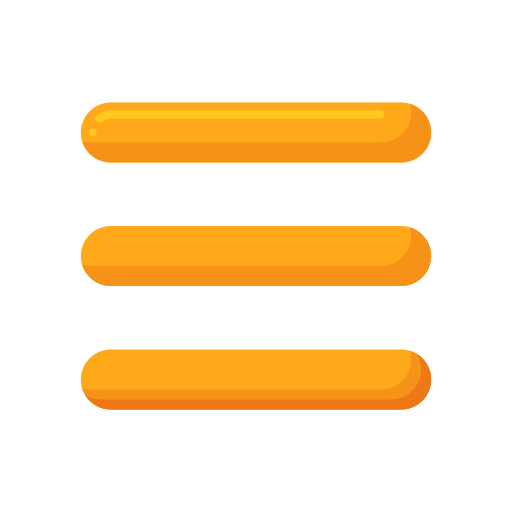
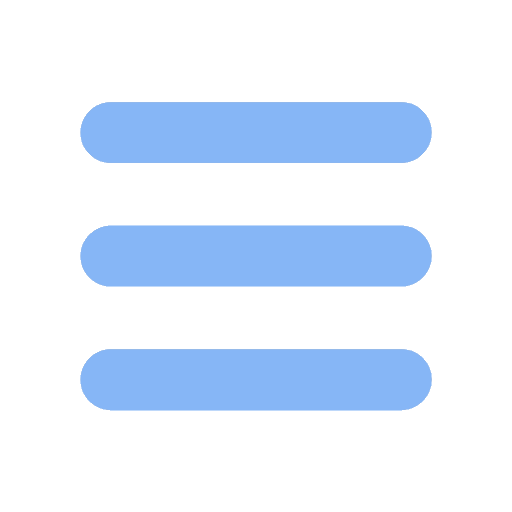
Chỉnh CSS

Changed region(s): [[0.1562, 0.6562, 0.8438, 0.8125], [0.1562, 0.1875, 0.8438, 0.3438], [0.1562, 0.4375, 0.8438, 0.5625]]

diff --git a/src/source/nhankhau_va_hokhau.css b/src/source/nhankhau_va_hokhau.css
@@ -1,17 +1,17 @@
 /* dieu chinh table view */
 .background {
-    -fx-background-color: #FFFFDD   ;
+    -fx-background-color: #EEF5FF   ;
 }
 
 .column-header {
-    -fx-background-color: #A2C579;
+    -fx-background-color: #86B6F6;
 }
 
 /* dieu chinh button */
 .buttonChucnang {
     -fx-background-radius: 2px;
-    -fx-text-fill: #fbffe8;
-    -fx-background-color: #61A3BA;
+    -fx-text-fill: #176B87;
+    -fx-background-color: #B4D4FF;
     -fx-font-weight: bold;
     -fx-min-height: 30px;
     -fx-max-height: 30px;
@@ -25,8 +25,8 @@
 
 .btntimkiem {
     -fx-font-weight: bold;
-    -fx-background-color: #557C55;
-    -fx-text-fill: #D2DE32;
+    -fx-background-color: #86B6F6;
+    -fx-text-fill: #176B87;
 }
 
 .btntimkiem: hover {
@@ -39,8 +39,8 @@
 
 .boxluachon .list-cell:selected {
     -fx-font-weight: bold;
-    -fx-background-color: #557C55;
-    -fx-text-fill: #D2DE32;
+    -fx-background-color: #86B6F6;
+    -fx-text-fill: #176B87;
 }
 
 .boxluachon: hover .list-cell:selected {

diff --git a/src/controller/HomeController.java b/src/controller/HomeController.java
@@ -11,7 +11,7 @@ import javafx.scene.Parent;
 import javafx.scene.Scene;
 import javafx.scene.control.Button;
 import javafx.scene.control.MenuItem;
-import javafx.scene.effect.BoxBlur;
+import javafx.scene.effect.ColorAdjust;
 import javafx.scene.input.MouseEvent;
 import javafx.scene.layout.AnchorPane;
 import javafx.scene.layout.Pane;
@@ -61,17 +61,17 @@ public class HomeController implements Initializable {
         Pane newContentPane = loader.load();
         // Replace the content of mainPane with the new content
         mainPane.getChildren().setAll(newContentPane);
-        anim(menuNhanKhau, 330, 0, 0.5);
+        anim(menuNhanKhau, 330, 0, 0.2);
     }
 
     public void setNhanKhau(MouseEvent event) {
         //changeMainPane("/views/NhanKhau_Lam.fxml");
         if (!show) {
             show = !show;
-            menuShow(menuNhanKhau, 430, 0, 0.5);
+            menuShow(menuNhanKhau, 430, 0, 0.2);
         } else {
             show = !show;
-            anim(menuNhanKhau, 330, 0, 0.6);
+            anim(menuNhanKhau, 330, 0, 0.2);
         }
     }
 
@@ -140,7 +140,8 @@ public class HomeController implements Initializable {
 
     void menuShow(VBox menu, int x, int y, double keysecond) {
         anim(menu, x, y, keysecond);
-        mainPane.setEffect(new BoxBlur(5, 5, 3));
+        mainPane.setEffect(new ColorAdjust(0, -0.5, -0.5, 0));
+        //phanconlai.setEffect(new BoxBlur(5, 5, 3));
         middlePane.setDisable(false);
     }
 

diff --git a/src/controller/users/BackupdataController.java b/src/controller/users/BackupdataController.java
@@ -79,13 +79,13 @@ public class BackupdataController implements Initializable {
     @FXML
     void hokhau_pick_address(ActionEvent event) {
         // nếu click vào chọn địa chỉ
-        openFileChooser(hokhautf.getText());
+        openFileChooser(hokhautf.getText(), hokhautf);
     }
 
     @FXML
     void nhankhau_pick_address(ActionEvent event) {
         // nếu click vào chọn địa chỉ
-        openFileChooser(nhankhautf.getText());
+        openFileChooser(nhankhautf.getText(), nhankhautf);
     }
 
     public void confirmClicked(ActionEvent event) throws SQLException, ClassNotFoundException {
@@ -99,7 +99,7 @@ public class BackupdataController implements Initializable {
     }
 
 
-    private String openFileChooser(String filepath) {
+    private String openFileChooser(String filepath, TextField tf) {
         // Lấy parendiretorey của file path này
         File currentFile = new File(filepath);
         File parentDirectory = currentFile.getParentFile();
@@ -118,6 +118,7 @@ public class BackupdataController implements Initializable {
         Stage stage = new Stage();
         File selectedFile = fileChooser.showSaveDialog(stage);
 
+        tf.setText(selectedFile.getAbsolutePath());
         // Check if a file was selected
         if (selectedFile != null) {
             return selectedFile.getAbsolutePath();

diff --git a/src/application/Main.java b/src/application/Main.java
@@ -4,14 +4,10 @@ import javafx.application.Application;
 import javafx.fxml.FXMLLoader;
 import javafx.scene.Parent;
 import javafx.scene.Scene;
-import javafx.scene.control.CheckBox;
-import javafx.scene.layout.VBox;
 import javafx.stage.Stage;
 import models.UserModel;
 
-import java.sql.*;
-
-import static services.UserService.xuatfileexcel;
+import java.sql.SQLException;
 
 
 public class Main extends Application {
@@ -19,7 +15,7 @@ public class Main extends Application {
 	@Override
 	public void start(Stage primaryStage) {
 		try {
-			Parent login = FXMLLoader.load(getClass().getResource("/views/users/backupdata.fxml"));
+			Parent login = FXMLLoader.load(getClass().getResource("/views/login.fxml"));
 			Scene scene = new Scene(login, 800, 650);
 
 			primaryStage.setScene(scene);
